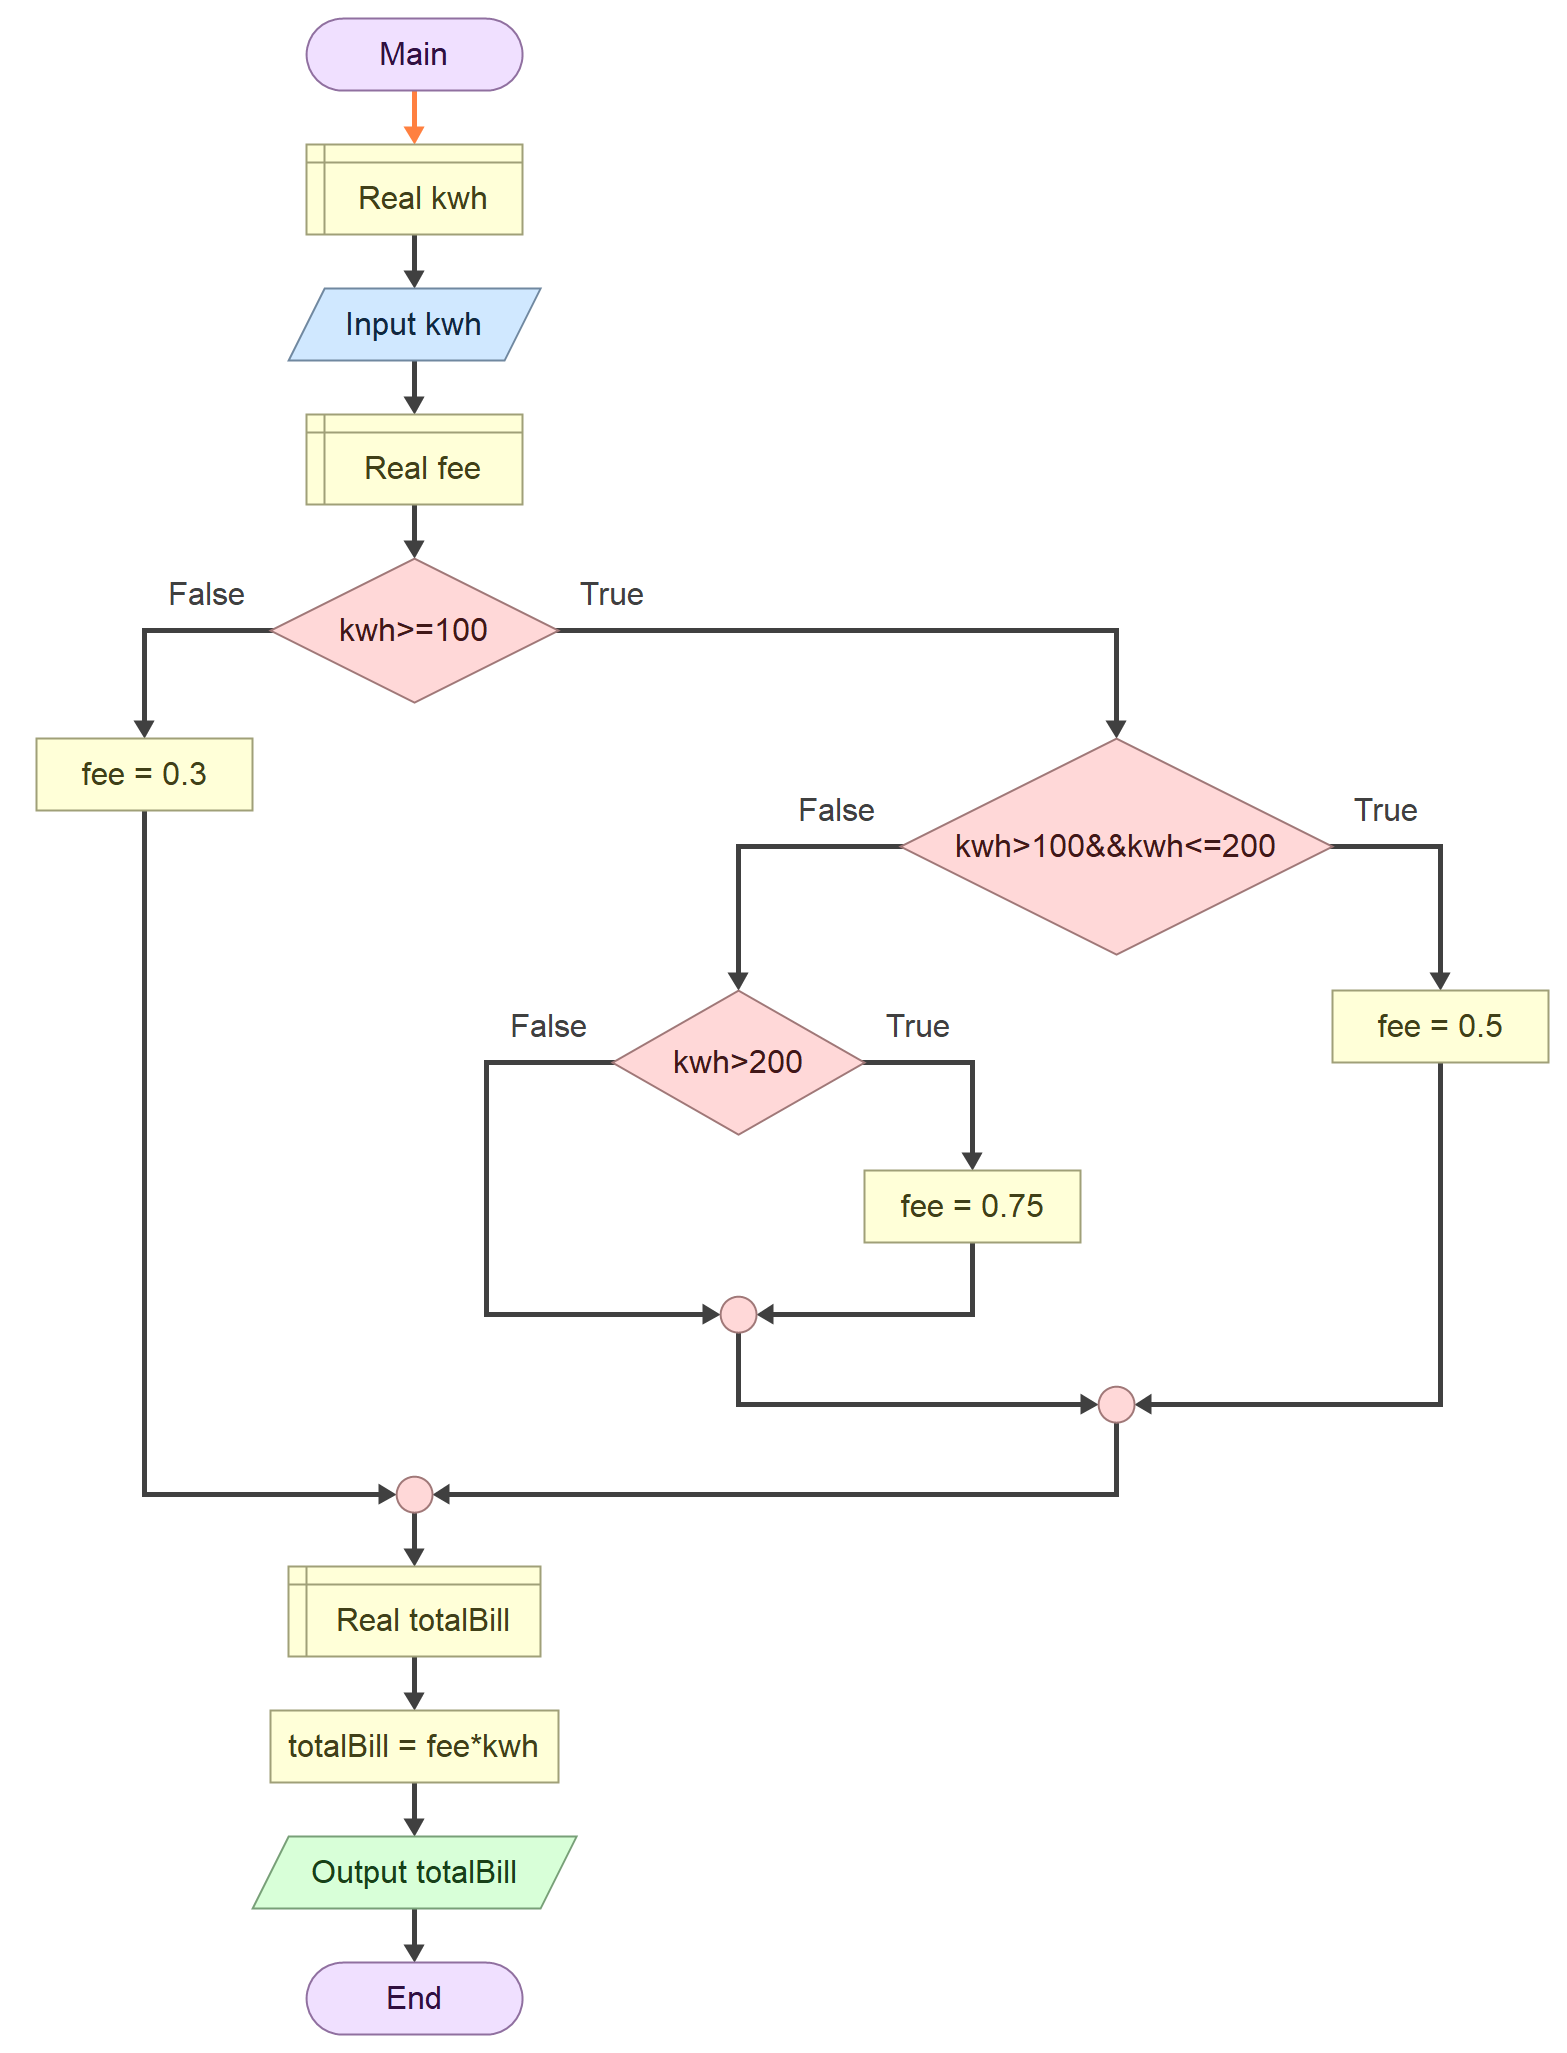
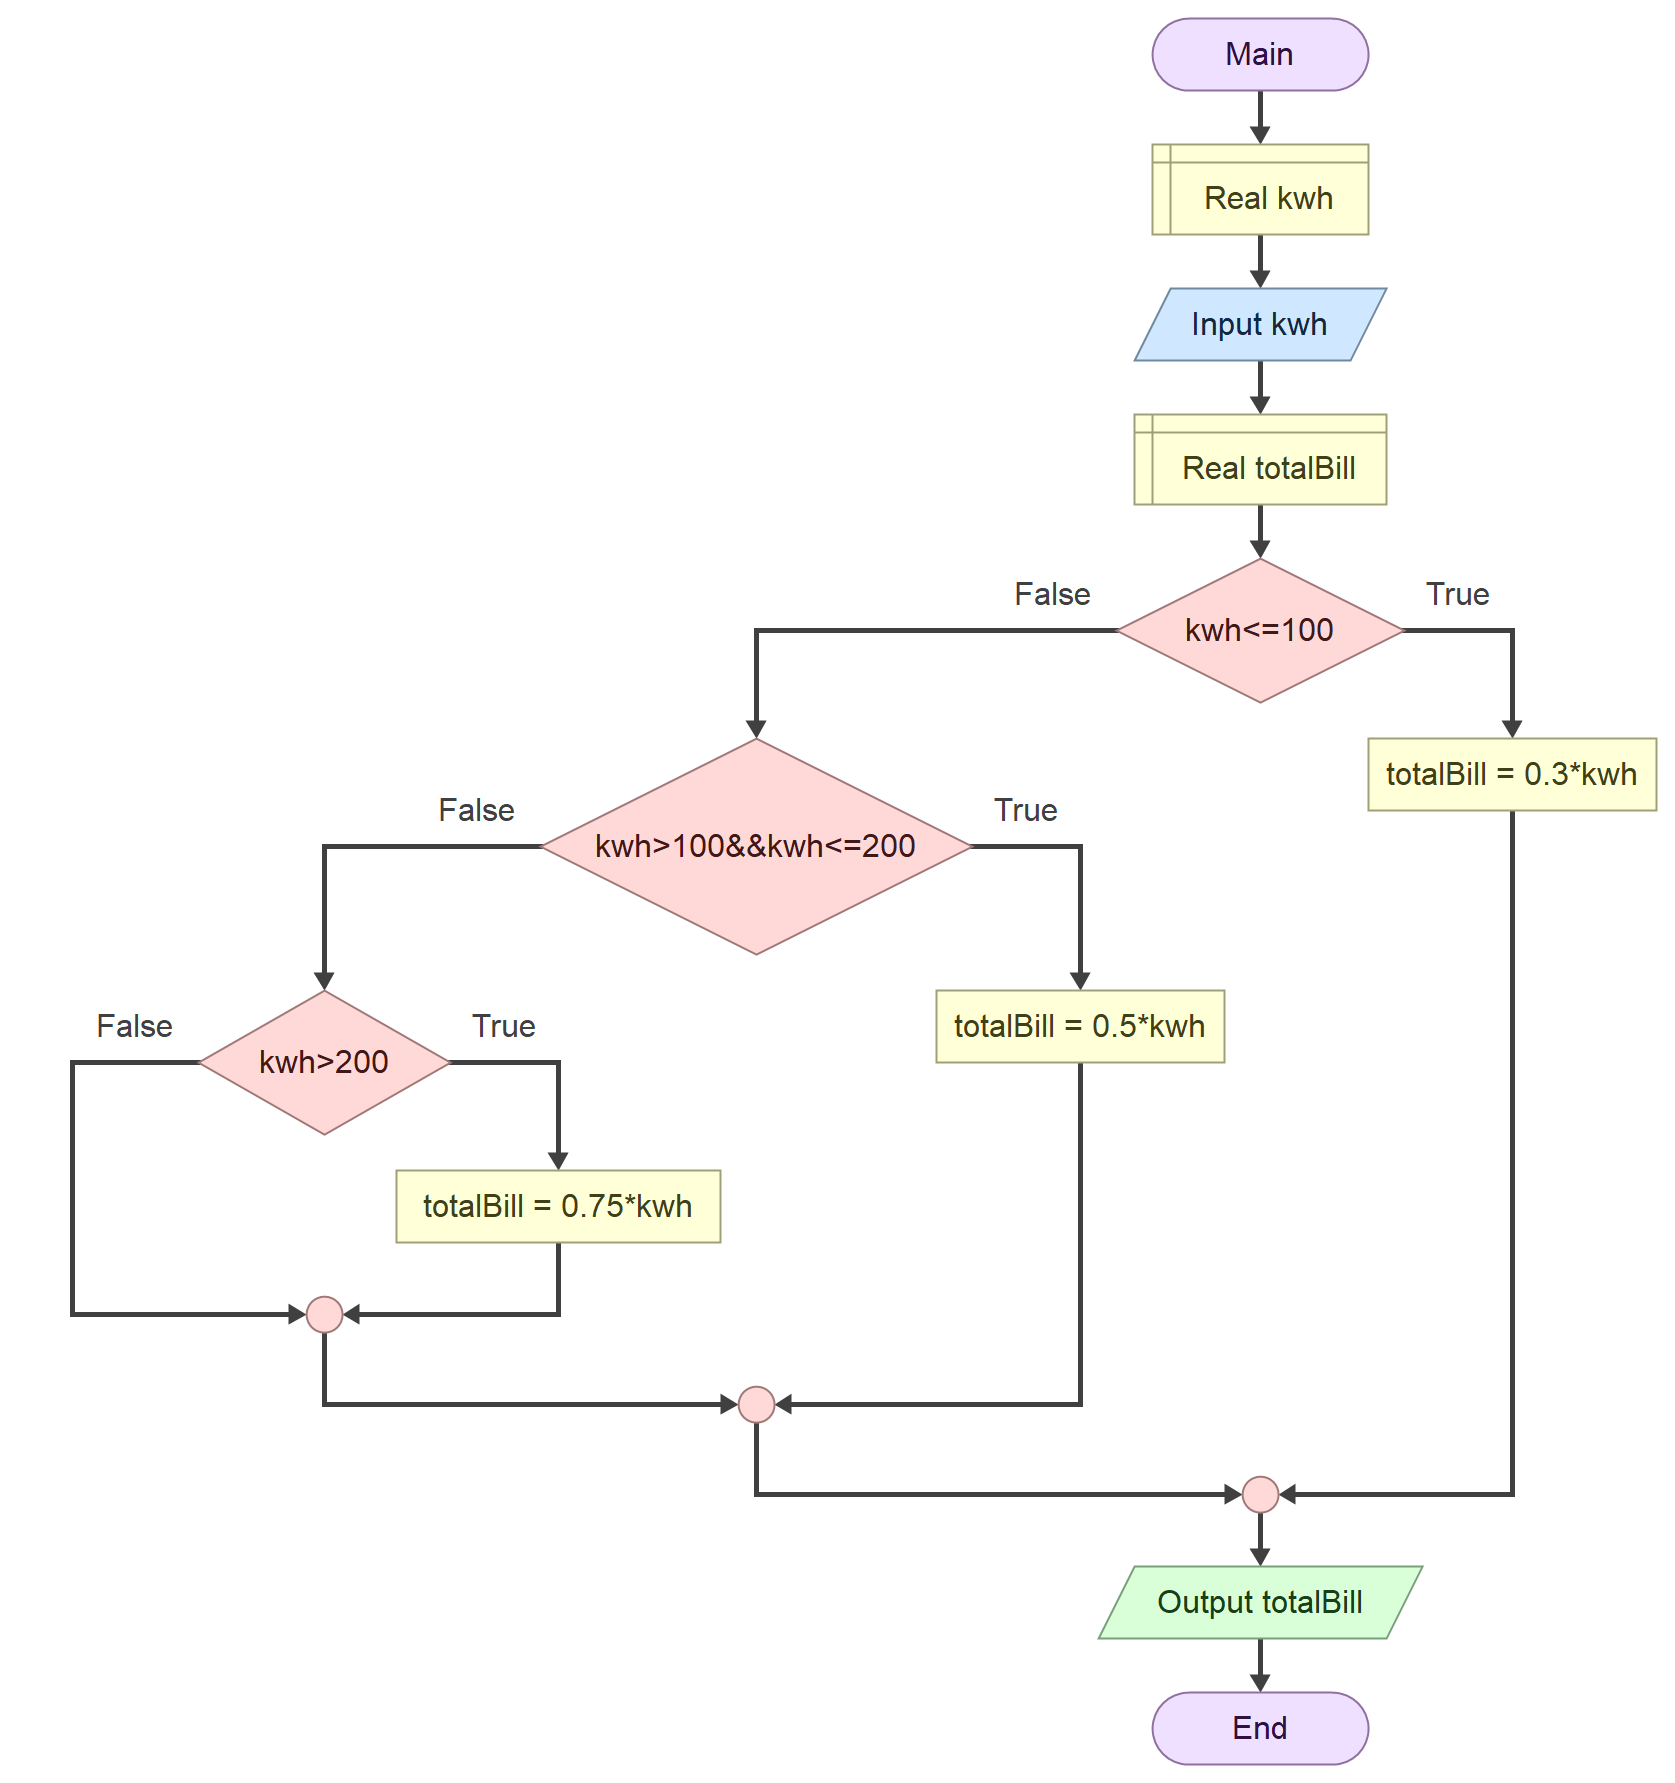
lab 4 ex1

diff --git a/labs/lab04/exercise1/lab-4-1.py b/labs/lab04/exercise1/lab-4-1.py
@@ -1,11 +1,10 @@
 kwh = float(input())
-if kwh >= 100:
+if kwh <= 100:
+    totalBill = 0.3 * kwh
+else:
     if kwh > 100 and kwh <= 200:
-        fee = 0.5
+        totalBill = 0.5 * kwh
     else:
         if kwh > 200:
-            fee = 0.75
-else:
-    fee = 0.3
-totalBill = fee * kwh
+            totalBill = 0.75 * kwh
 print(totalBill)